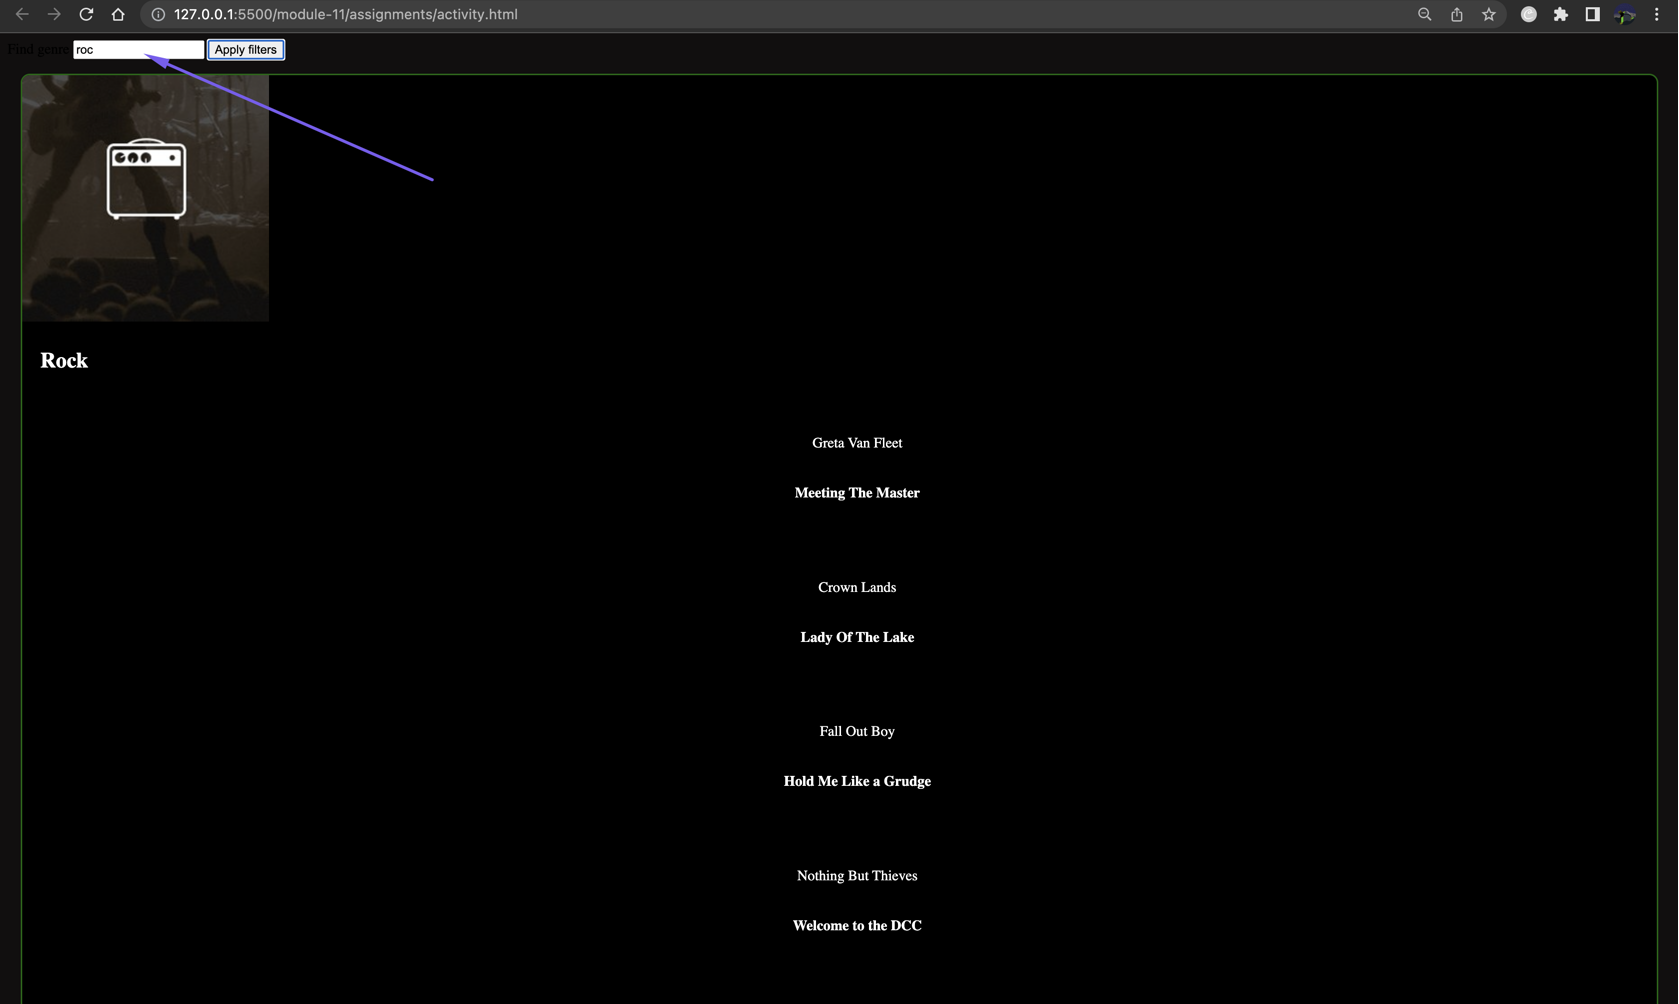
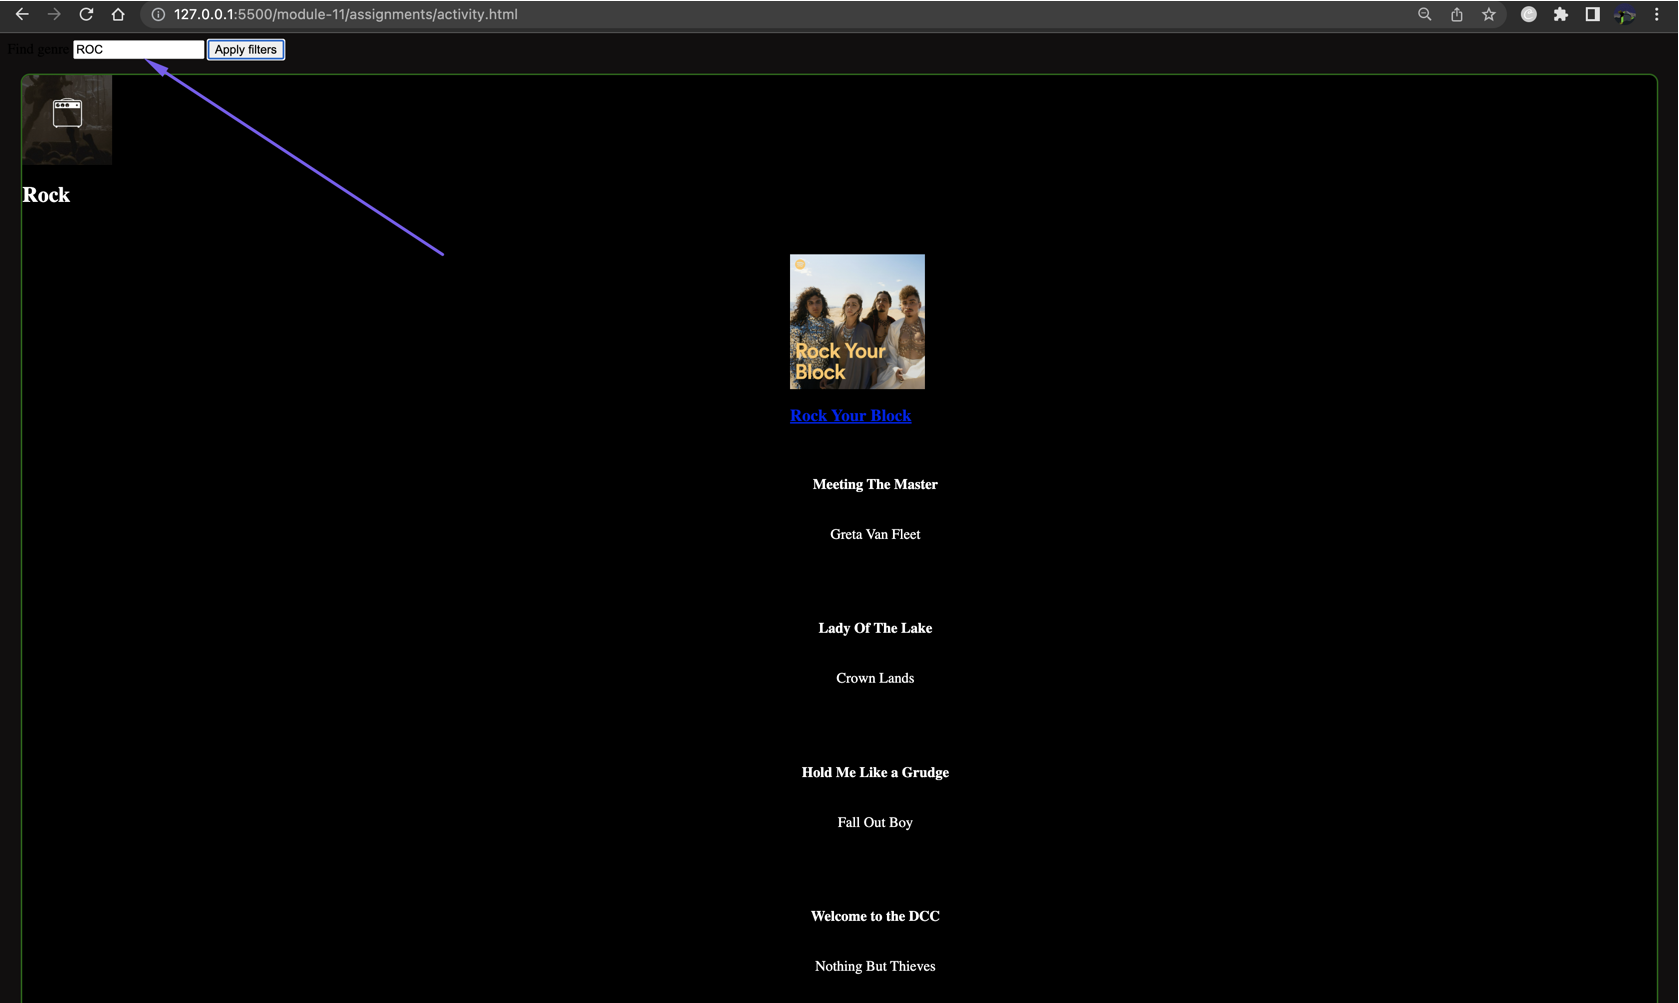
Updated with activity Task for Module 11

diff --git a/module-11/assignments/task.js b/module-11/assignments/task.js
@@ -1,0 +1,133 @@
+const clientId = `d567ad34518240018fdb7d096e59223c`;
+const clientSecret = `0475bd76bd5d4444871e0ce11369e177`;
+
+let _data = [];
+
+const getToken = async () => {
+  const result = await fetch("https://accounts.spotify.com/api/token", {
+    method: "POST",
+    headers: {
+      "Content-Type": "application/x-www-form-urlencoded",
+      Authorization: "Basic " + btoa(clientId + ":" + clientSecret),
+    },
+    body: "grant_type=client_credentials",
+  });
+
+  const data = await result.json();
+  return data.access_token;
+};
+
+const getGenres = async (token) => {
+  const result = await fetch(
+    `https://api.spotify.com/v1/browse/categories?locale=sv_US`,
+    {
+      method: "GET",
+      headers: { Authorization: "Bearer " + token },
+    }
+  );
+
+  const data = await result.json();
+  return data.categories.items;
+};
+
+const getPlaylistByGenre = async (token, genreId) => {
+  const limit = 5;
+
+  const result = await fetch(
+    `https://api.spotify.com/v1/browse/categories/${genreId}/playlists?limit=${limit}`,
+    {
+      method: "GET",
+      headers: { Authorization: "Bearer " + token },
+    }
+  );
+
+  const data = await result.json();
+  return data.playlists ? data.playlists.items : [];
+};
+
+const getTracksByPlaylist = async (token, playlistId) => {
+  const limit = 5;
+  const result = await fetch(
+    `https://api.spotify.com/v1/playlists/${playlistId}/tracks?limit=${limit}`,
+    {
+      method: "GET",
+      headers: { Authorization: "Bearer " + token },
+    }
+  );
+
+  const data = await result.json();
+  return data.items ? data.items : [];
+};
+
+const loadGenres = async () => {
+  const token = await getToken();
+  const genres = await getGenres(token);
+  for (const { name, id, icons: [icon], playlists } of genres) {
+    const playlists = await getPlaylistByGenre(token, id);
+    const tracks = await Promise.all(
+      (playlists ?? []).map(async ({ id, name, external_urls: { spotify }, images: [image] }) => {
+        const tracks = await getTracksByPlaylist(token, id);
+        return { name, external_urls: { spotify }, image, tracks };
+      })
+    );
+    _data.push({ name, icon, playlists: tracks });
+  }
+};
+
+const returnGenres = (filterTerm) => {
+  let source = _data;
+  if (filterTerm) {
+    console.log(filterTerm);
+    source = source.filter(({ name }) => {
+      console.log(name.toLowerCase().includes(filterTerm.toLowerCase()));
+      return name.toLowerCase().includes(filterTerm.toLowerCase());
+    });
+  }
+
+  const list = document.getElementById(`genres`);
+  const html = source.reduce((acc, { name, icon, playlists }) => {
+    const playlistsList = playlists
+      .map(({ name, external_urls: { spotify }, image, tracks }) => `
+        <li class="playlist-card">
+          <a href="${spotify}" target="_blank">
+            <img src="${image.url}" alt="${name}" width="${image.width}" height="${image.height}"/>
+            <h3>${name}</h3>
+          </a>
+          <ul class="track-list">
+            ${tracks.map(({ track }) => `
+              <li class="track-card">
+                <h4>${track.name}</h4>
+                <p>${track.artists.map(artist => artist.name).join(", ")}</p>
+                </li>
+                `).join("")}
+                </ul>
+              </li>
+            `).join("");
+          
+          const genreHtml = `
+            <article class="genre-card">
+              <img src="${icon.url}" alt="${name}" width="100" height="100"/>
+              <h2>${name}</h2>
+              <ul class="playlist-list">
+                ${playlistsList}
+              </ul>
+            </article>
+          `;
+          
+          return acc + genreHtml;
+        }, "");
+
+        list.innerHTML = html;
+        };        
+      
+
+        loadGenres().then(returnGenres);
+
+        const onSubmit = (event) => {
+          event.preventDefault();
+        
+          const term = event.target.term.value;
+          console.log(term);
+        
+          returnGenres(term);
+        };

diff --git a/module-11/assignments/main.css b/module-11/assignments/main.css
@@ -1,5 +1,5 @@
-body{
-    background-color: rgb(17, 15, 15);
+body {
+  background-color: rgb(17, 15, 15);
 }
 
 .genre-card {
@@ -16,15 +16,15 @@ body{
 }
 
 .genre-card:not(:last-child) {
-    margin-bottom: 15px;
-  }
+  margin-bottom: 15px;
+}
 
-  .genre-card > div {
-    padding: 10px 20px;
-    display: flex;
-    flex-direction: column;
-    overflow: hidden;
-  }
+.genre-card > div {
+  padding: 10px 20px;
+  display: flex;
+  flex-direction: column;
+  overflow: hidden;
+}
 
 .genre-card > div > a {
   color: rgb(255, 255, 255);
@@ -32,20 +32,19 @@ body{
 }
 
 ol {
-    list-style: none;
-    margin: 0;
-    padding: 0;
-    display: flex;
-    overflow: auto;
-    max-width: 100%;
-  }
-  
-  .genre-card > div > ol > li {
-    margin-right: 10px;
+  list-style: none;
+  margin: 0;
+  padding: 0;
+  display: flex;
+  overflow: auto;
+  max-width: 100%;
 }
 
+.genre-card > div > ol > li {
+  margin-right: 10px;
+}
 
- .genre-card > div > div > ul {
+.genre-card > div > div > ul {
   list-style: none;
   margin: 0;
   padding: 0;
@@ -57,11 +56,13 @@ ol {
 
 .genre-card > div > div > ul > li {
   margin-bottom: 0.5rem;
+  display: flex;
+  justify-content: space-between;
 }
 
 li {
   display: flex;
-  flex-direction:column-reverse;
+  flex-direction: column;
   align-items: center;
   padding: 1rem;
   border: 1px solid black;
@@ -81,8 +82,3 @@ li img {
   margin-bottom: 1rem;
   text-align: center;
 }
-/* .genre-card > div > div > ul {
-  display: flex;
-  flex-wrap: wrap;
-  justify-content: center;
-} */
